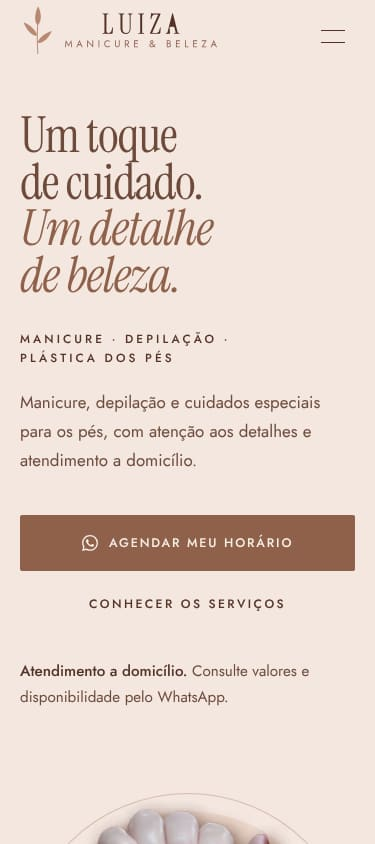
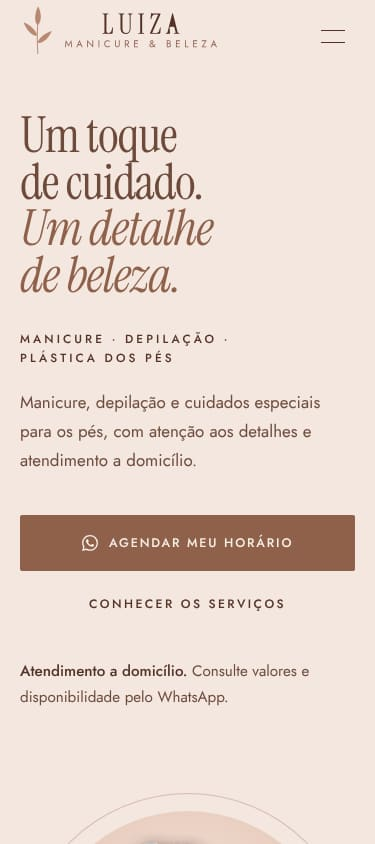
LUIZA: hero refinada, galeria e serviços
Arco nude mais profundo com luz suave, ramos botânicos atrás do arco,
mãos menores e borda do recorte apertada; quadro vinho recomposto;
ícones de serviço em círculo; remove a nota sobre o fundo das fotos.

Claude-Session: https://claude.ai/code/session_016UG3UNeCQEzYNP7inJMp9g

Changed region(s): [[0.2347, 0.955, 0.7333, 1.0]]

diff --git a/luiza-manicure/src/components/Hero.tsx b/luiza-manicure/src/components/Hero.tsx
@@ -1,6 +1,6 @@
 import Image from "next/image";
 import { PHOTOS } from "@/lib/photos";
-import { Monogram } from "./Logo";
+import { Monogram, Sprig } from "./Logo";
 import { WhatsAppButton } from "./WhatsAppButton";
 
 const d = (i: number) => ({ "--i": i }) as React.CSSProperties;
@@ -10,16 +10,19 @@ function HeroVisual({ className = "" }: { className?: string }) {
   const photo = PHOTOS.hero;
   return (
     <div className={`relative overflow-hidden ${className}`}>
+      {/* ramos atrás do arco: aparecem só pelas bordas */}
+      <Sprig className="arch-in-late pointer-events-none absolute bottom-[2%] left-[1%] h-[48%] w-auto -rotate-[16deg] text-rose sm:left-[4%]" />
+      <Sprig className="arch-in-late pointer-events-none absolute right-[1%] top-[14%] h-[34%] w-auto rotate-[168deg] -scale-x-100 text-rose/80 sm:right-[4%]" />
       {/* arco de fundo + contorno fino */}
       <div
         aria-hidden="true"
-        className="arch-in absolute bottom-0 left-1/2 h-[86%] w-[80%] max-w-[500px] -translate-x-1/2 rounded-t-full bg-nude/45"
+        className="hero-arch arch-in absolute bottom-0 left-1/2 h-[86%] w-[80%] max-w-[500px] -translate-x-1/2 rounded-t-full"
       />
       <div
         aria-hidden="true"
         className="arch-in-late absolute bottom-0 left-1/2 h-[calc(86%+18px)] w-[calc(80%+36px)] max-w-[536px] -translate-x-1/2 rounded-t-full border border-b-0 border-rose/45"
       />
-      <div className="hands-in absolute inset-x-0 bottom-0 flex h-[94%] justify-center">
+      <div className="hands-in absolute inset-x-0 bottom-0 flex h-[86%] justify-center">
         <Image
           src={photo.src}
           alt={photo.alt}

diff --git a/luiza-manicure/src/components/Services.tsx b/luiza-manicure/src/components/Services.tsx
@@ -57,8 +57,10 @@ export function Services() {
                 event={event}
                 className="group flex h-full flex-col items-center rounded-[10px] bg-tile px-8 pb-10 pt-12 text-center transition-[transform,background-color,box-shadow] duration-500 ease-[var(--ease-out)] hover:-translate-y-1 hover:bg-[#ead9ce] hover:shadow-[0_24px_40px_-30px_rgb(84_49_36/0.45)] md:px-10 md:pt-14"
               >
-                <Icon size={30} className="text-rose-ink" />
-                <h3 className="h3 mt-7 text-cacau-soft">{title}.</h3>
+                <span className="inline-flex size-16 items-center justify-center rounded-full border border-rose/60 text-rose-ink transition-colors duration-500 group-hover:bg-porcelana/70">
+                  <Icon size={28} />
+                </span>
+                <h3 className="h3 mt-8 text-cacau-soft">{title}.</h3>
                 <p className="mt-4 max-w-[26ch] text-[0.98rem] leading-relaxed text-cacau-soft">{text}</p>
                 <span className="text-link mt-auto pt-8">
                   {cta}

diff --git a/luiza-manicure/src/components/Logo.tsx b/luiza-manicure/src/components/Logo.tsx
@@ -63,3 +63,19 @@ export function Monogram({ className }: { className?: string }) {
     </svg>
   );
 }
+
+/** Ramo botânico em traço fino (decorativo), no espírito das referências. */
+export function Sprig({ className }: { className?: string }) {
+  const leaves: [number, number, number][] = [
+    [50, 204, -38], [69, 186, 36], [47, 164, -32], [67, 144, 38], [48, 122, -26],
+    [69, 102, 40], [55, 80, -20], [74, 62, 42], [63, 40, -12], [78, 25, 30],
+  ];
+  return (
+    <svg viewBox="0 0 120 240" className={className} aria-hidden="true" fill="none" stroke="currentColor" strokeWidth={1} strokeLinecap="round">
+      <path d="M60 238C58 182 52 122 72 6" />
+      {leaves.map(([cx, cy, r], i) => (
+        <ellipse key={i} cx={cx} cy={cy} rx={4.4} ry={11} transform={`rotate(${r} ${cx} ${cy})`} />
+      ))}
+    </svg>
+  );
+}

diff --git a/luiza-manicure/src/app/globals.css b/luiza-manicure/src/app/globals.css
@@ -311,6 +311,13 @@ a {
   animation: monogram-in 1000ms var(--ease-out) 900ms both;
 }
 
+/* Arco da Hero: nude mais profundo com luz suave no alto, para as mãos destacarem */
+.hero-arch {
+  background:
+    radial-gradient(120% 70% at 50% 18%, rgb(255 248 243 / 0.55), transparent 62%),
+    color-mix(in oklab, var(--color-nude) 82%, var(--color-rose) 18%);
+}
+
 /* Quadros de foto */
 .photo-frame {
   overflow: hidden;

diff --git a/luiza-manicure/src/components/PortfolioGallery.tsx b/luiza-manicure/src/components/PortfolioGallery.tsx
@@ -97,10 +97,6 @@ export function PortfolioGallery() {
             </li>
           ))}
         </ul>
-        <p className="mx-auto mt-10 max-w-xl text-center text-[0.88rem] leading-relaxed text-cacau-soft">
-          Trabalhos reais da Luiza. O fundo das fotos foi trocado para deixar a galeria uniforme; mãos, unhas e cores
-          não foram retocadas.
-        </p>
       </div>
 
       <dialog

diff --git a/luiza-manicure/README.md b/luiza-manicure/README.md
@@ -58,7 +58,7 @@ Símbolo botânico de três folhas redesenhado em vetor + "LUIZA" em Cormorant c
 ---
 
 ## 2. Fotografias
-Quatro fotos reais da profissional. O fundo de celular (tecido, plástico, salão) foi **removido** com `@imgly/background-removal-node` (offline) e trocado pelo fundo nude da marca, com sombra suave. **Mãos, unhas e cores não foram retocadas.** A galeria avisa isso em uma linha.
+Quatro fotos reais da profissional. O fundo de celular (tecido, plástico, salão) foi **removido** com `@imgly/background-removal-node` (offline) e trocado pelo fundo nude da marca, com sombra suave. **Mãos, unhas e cores não foram retocadas.** A borda do recorte é apertada ~1px para eliminar o fio do fundo original.
 
 - Originais: `source-photos/*.jpg` · Recortes: `source-photos/recortes/*.png`
 - `npm run assets` gera os quadros 4:5 da galeria e o recorte transparente da Hero em `public/photos/`, com hash do conteúdo no nome (evita cache de versões antigas).
